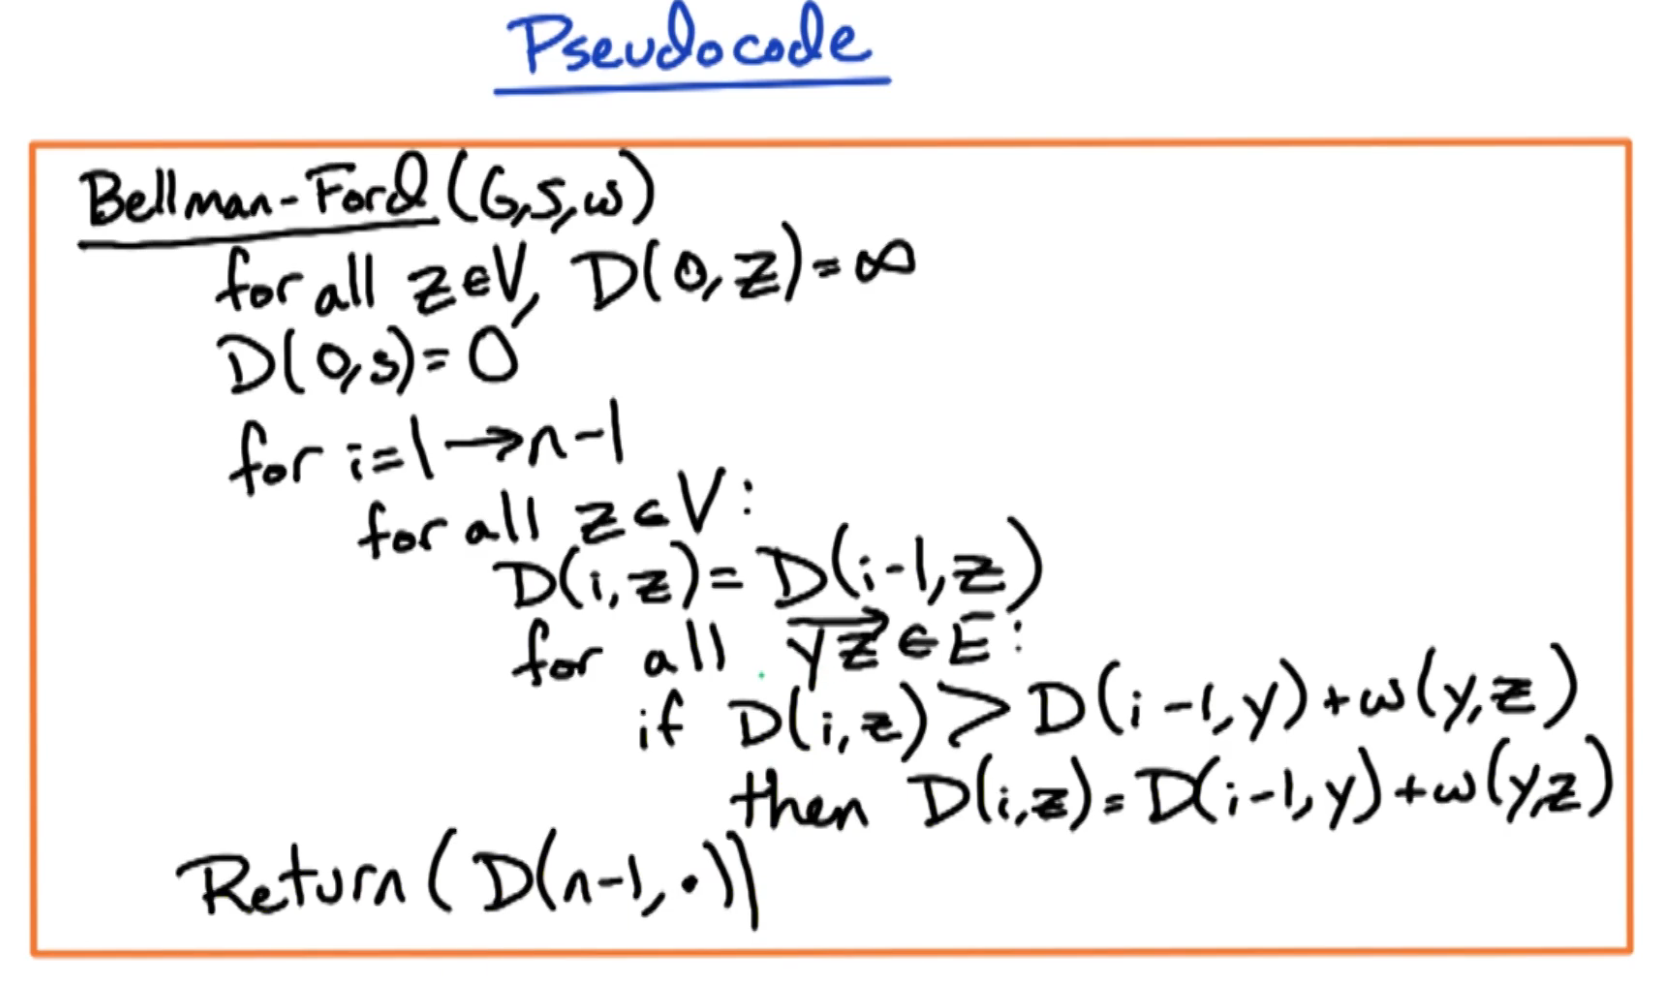
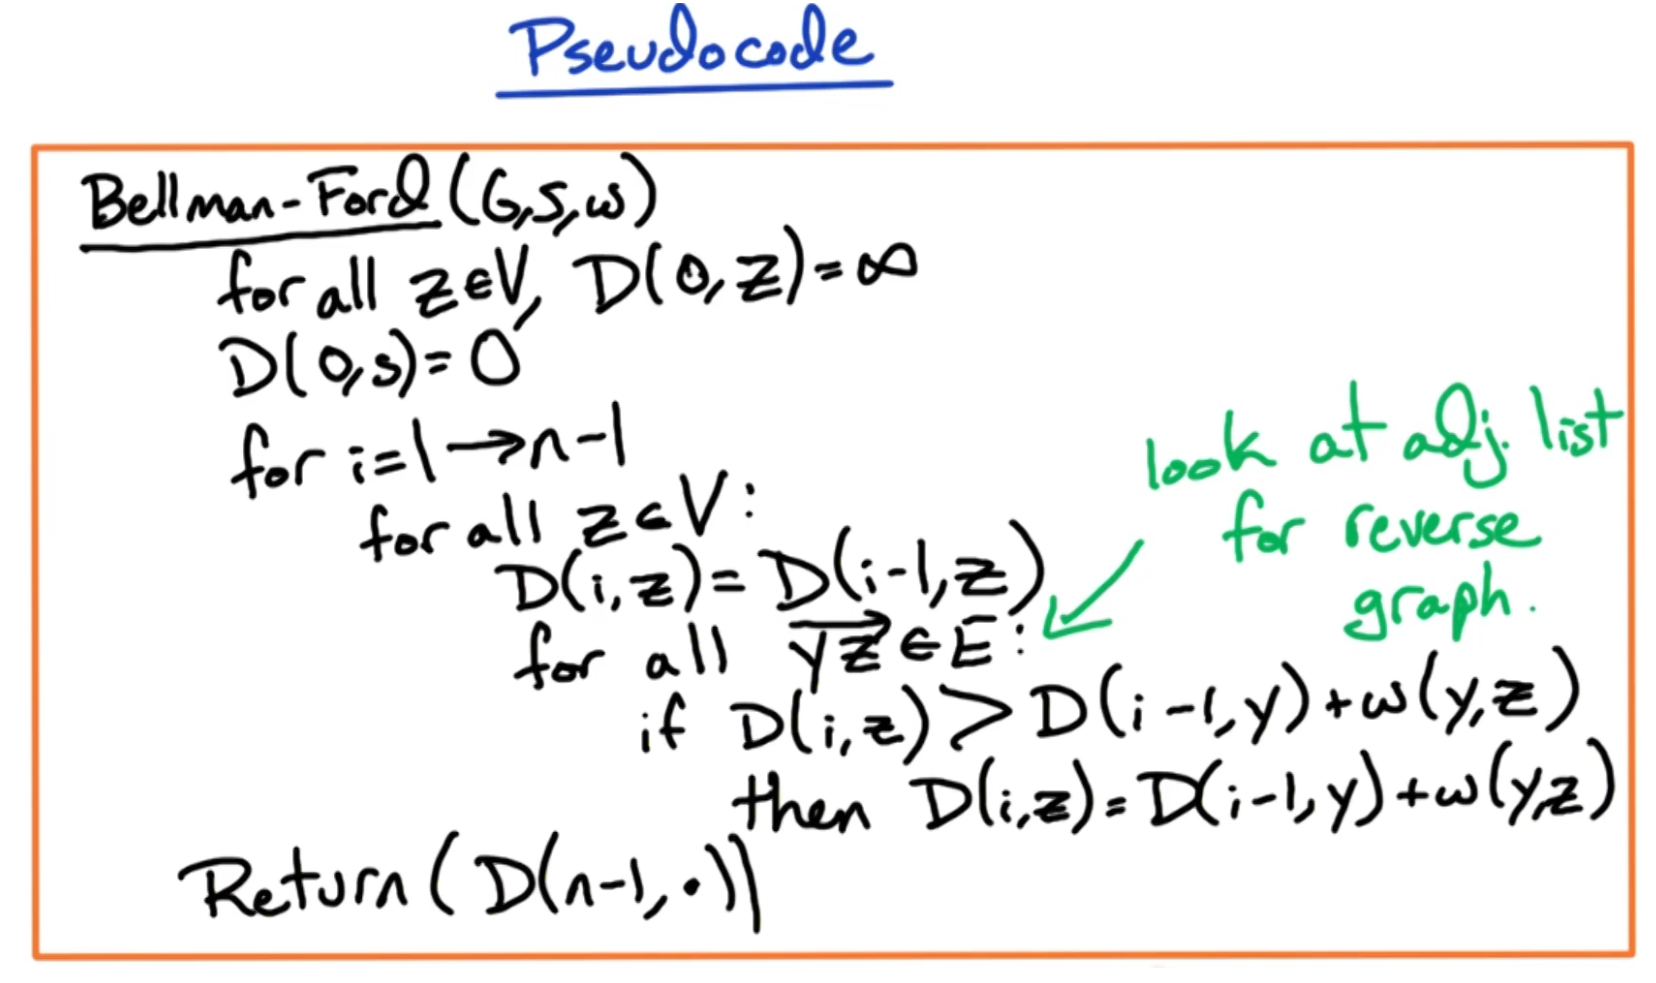
WIP CS 6515 03-DP3

Changed region(s): [[0.0, 0.0, 1.0, 0.9766], [0.6775, 0.5493, 0.7083, 0.5799]]

diff --git a/cs-6515/01-dynamic-programming.md b/cs-6515/01-dynamic-programming.md
@@ -2092,6 +2092,56 @@ Next, we will detail/define this algorithm more formally.
 
 #### Pseudocode
 
+Let us now detail the pseudocode for the dynamic programming algorithm to solve the single-source shortest path problem.
+
+<center>
+<img src="./assets/03-DP3-008.png" width="650">
+</center>
+
+The corresponding algorithm called the **Bellman-Ford algorithm** is given as follows:
+
+```math
+\boxed{
+\begin{array}{l}
+{{\rm{Bellman-Ford}}(G,s,w):}\\
+\ \ \ \ {{\rm{for\ all\ }} z \in V:}\\
+\ \ \ \ \ \ \ \ {D(0,z) = \infty}\\
+\ \ \ \ {D(0,s) = 0}\\
+\ \ \ \ {{\rm{for\ }} i=1 \to n-1:}\\
+\ \ \ \ \ \ \ \ {{\rm{for\ all\ }} z \in V:}\\
+\ \ \ \ \ \ \ \ \ \ \ \ {D(i,z) = D(i-1,z)}\\
+\ \ \ \ \ \ \ \ \ \ \ \ {{\rm{for\ all\ }} \vec{yz} \in E:}\\
+\ \ \ \ \ \ \ \ \ \ \ \ \ \ \ \ {{\rm{if\ }} D(i,z) > D(i-1,y) + w(y,z) {\rm{\ then\ }} D(i,z) = D(i-1,y) + w(y,z)}\\
+\ \ \ \ {{\rm{return\ }} (D(n-1,\cdot))}
+\end{array}
+}
+```
+
+***N.B.*** The namesake of the algorithm, Richard Bellman, originally developed the dynamic programming algorithmic technique in the 1940s.
+
+The ***inputs*** to the algorithm are the directed graph $G$ , source vertex $s$ , and the edge weights $w$ .
+
+First, $D(0,\cdots)$ is initialized for $s$ and all other vertices.
+
+Next, the vertices are iterated over the range $i = 1 \to n$ , initialized as $D(i,z) = D(i-1,z)$ (i.e., using at most $i-1$ edges).
+
+Next, the directed edges $\vec {yz}$ are iterated over, to determine if $D(i,z)$ should be updated with respect to the last edge (i.e., the case of edge strictly equal $=i$ ). If this last-edge path is optimal relative to the current optimal solution, then $D(i,z)$ is updated accordingly.
+  * ***N.B.*** At this step, to determine the edge *into* vertex $z$ (i.e., $\vec{yz}$ ), we examine the adjacency list for the *reverse* graph accordingly (i.e., by correspondingly "flipping" the edges of the graph in this manner, which requires $O(n + m)$ such operations given $n$ vertices and $m$ edges). In the "original" version of the graph, the edges are directed *out* of $z$ , thereby necessitating this reversal accordingly.
+
+Finally, the solution is returned as $D(n-1,\cdot)$ (where $n-1$ excludes source vertex $s$ ), via a two-dimensional table/array $D$ of size $(n-1) \times m$ (where the corresponding return value is the last row of this table). 
+
 #### Running Time
+
+Now, consider the overall running time for this algorithm.
+
+<center>
+<img src="./assets/03-DP3-009.png" width="650">
+</center>
+
+Examining the nested $\rm{for}$ loops (which, by inspection, dominate the overall algorithm running time), the outer loop requires $O(n)$ running time with respect to $n$ vertices. Furthermore, the innermost $\rm{for}$ loop is performed with respect to all $m$ edges of the graph (where the two inner loops together effectively iterate over every edge exactly once in the process of this), with each innermost loop performing an $O(1)$ operation (i.e., checking and setting $D(i,z)$ ). Therefore, the overall running time is $O(nm)$ .
+
+Observe that while this algorithm is slower than Dijkstra's algorithm (cf. Section 1, $O((m+n) \log (n))$ ), it nevertheless allows for negative weight edges to exist in the input graph. Furthermore, it is also generally able to identify negative weight cycles within the input graph (otherwise, if absent, then the algorithm will determine the shortest path from source vertex $s$ , which is generally well defined).
+
+Next, let us determine how to explicitly detect such a negative weight cycle in the input graph.
 
 ### 7. Finding Negative Weight Cycle
